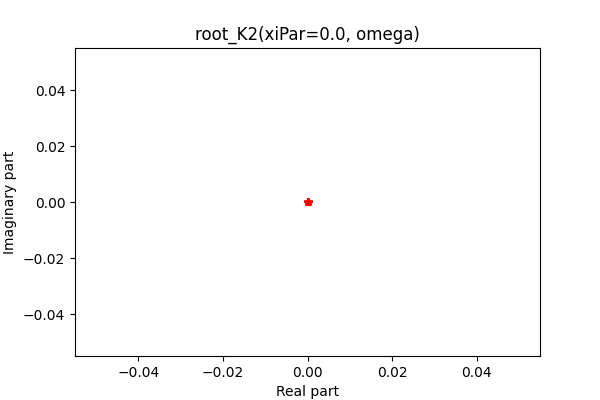
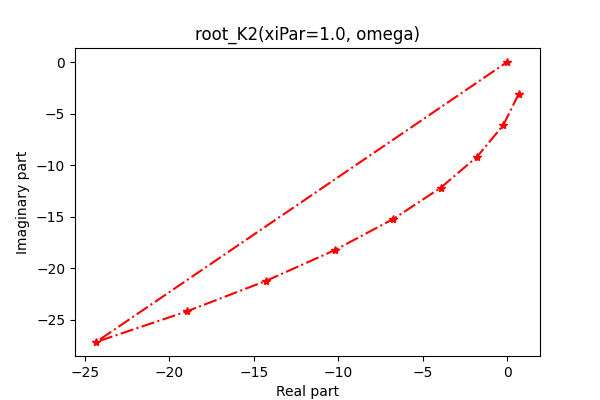
Updated k root graphs

diff --git a/app.py b/app.py
@@ -253,7 +253,7 @@ def page2():
         def plottingK1(xiPar):
           omegaChange = np.linspace(omegaParameterFrom, omegaParameterTo, 10)
           KRoot1Change = np.zeros((10), dtype = "complex")
-          for i in range(len(omegaChange)-1):
+          for i in range(len(omegaChange)):
             KRoot1Change[i] = root_K1(xiPar, omegaChange[i])
           fig, ax = plt.subplots(figsize=(6, 4))
           ax.plot(np.real(KRoot1Change), np.imag(KRoot1Change), '-.r*')
@@ -268,7 +268,7 @@ def page2():
         def plottingK2(xiPar):
           omegaChange = np.linspace(omegaParameterFrom, omegaParameterTo, 10)
           KRoot2Change = np.zeros((10), dtype = "complex")
-          for i in range(len(omegaChange)-1):
+          for i in range(len(omegaChange)):
             KRoot2Change[i] = root_K2(xiPar, omegaChange[i])
           fig, ax = plt.subplots(figsize=(6, 4))
           ax.plot(np.real(KRoot2Change), np.imag(KRoot2Change), '-.r*')
@@ -283,7 +283,7 @@ def page2():
         def plottingK3(xiPar):
           omegaChangeRoot3 = np.linspace(omegaParameterFrom, omegaParameterTo, 10)
           KRoot3Change = np.zeros((10), dtype = "complex")
-          for i in range(len(omegaChangeRoot3)-1):
+          for i in range(len(omegaChangeRoot3)):
             KRoot3Change[i] = root_K3(xiPar, omegaChangeRoot3[i])
           fig, ax = plt.subplots(figsize=(6, 4))
           ax.plot(np.real(KRoot3Change), np.imag(KRoot3Change), '-.r*')
@@ -407,12 +407,20 @@ def page2():
         def plot_u_theta(x_1, x_2, xiPar, omegaChange):
           x_1_values = np.linspace(1, 10, 10)
           x_2_values = np.linspace(1, 10, 10)
+          xiParChange = np.linspace(1, 10, 10)
+          omega_values = np.linspace(omegaParameterFrom, omegaParameterTo, 10)
+          # Initialize arrays to store the results for xi
+          u_values_xi = np.zeros((10, 2), dtype=np.complex128)
+          theta_values_xi = np.zeros(10, dtype=np.complex128)
           # Initialize arrays to store the results for x_1
           u_values_x1 = np.zeros((10, 2), dtype=np.complex128)
           theta_values_x1 = np.zeros(10, dtype=np.complex128)
           # Initialize arrays to store the results for x_2
           u_values_x2 = np.zeros((10, 2), dtype=np.complex128)
           theta_values_x2 = np.zeros(10, dtype=np.complex128)
+          # Initialize arrays to store the results for omega
+          u_values_omega = np.zeros((10, 2), dtype=np.complex128)
+          theta_values_omega = np.zeros(10, dtype=np.complex128)
           # Iterate over each x_1 value and calculate u and theta
           for i, x_1 in enumerate(x_1_values):
               u_values_x1[i] = calculate_ui(x_1, x_2, xiPar, omegaChange)
@@ -421,7 +429,13 @@ def page2():
           for i, x_2 in enumerate(x_2_values):
                 u_values_x2[i] = calculate_ui(x_1, x_2, xiPar, omegaChange)
                 theta_values_x2[i] = calculate_theta(x_1, x_2, xiPar, omegaChange)
-
+          # Iterate over each x_2 value and calculate u and theta
+          for i, xi in enumerate(xiParChange):
+              u_values_xi[i] = calculate_ui(x_1, x_2, xi, omegaChange)
+              theta_values_xi[i] = calculate_theta(x_1, x_2, xi, omegaChange)
+          for i, omega in enumerate(omega_values):
+              u_values_omega[i] = calculate_ui(x_1, x_2, xi, omega)
+              theta_values_omega[i] = calculate_theta(x_1, x_2, xi, omega)
           # Plot the graphs
           plt.figure(figsize=(10, 5))
 
@@ -462,11 +476,56 @@ def page2():
           plt.xlabel('x_2')
           plt.ylabel('theta')
           plt.title('Graph of theta for x_2')
+
           # Show the plots
           plt.tight_layout()
           plt.savefig("plot_image2.png")
           plot2 = Image.open("plot_image2.png")
           st.image(plot2, width=800)
+
+          #Plot u for xi
+          plt.subplot(1, 2, 1)
+          plt.plot(xiParChange, u_values_xi[:, 0].real,'r', label='u_1')
+          plt.plot(xiParChange, u_values_xi[:, 1].real, 'g', label='u_2')
+          plt.xlabel('xi')
+          plt.ylabel('u')
+          plt.title('Graphs of u')
+          plt.legend()
+
+           # Plot theta for xi
+          plt.subplot(1, 2, 2)
+          plt.plot(xiParChange, theta_values_xi.real, 'g')
+          plt.xlabel('xi')
+          plt.ylabel('theta')
+          plt.title('Graph of theta')
+
+           # Show the plots
+          plt.tight_layout()
+          plt.savefig("plot_image3.png")
+          plot3 = Image.open("plot_image3.png")
+          st.image(plot3, width=800)
+
+          #Plot u for omega
+          plt.subplot(1, 2, 1)
+          plt.plot(omega_values, u_values_omega[:, 0].real,'r', label='u_1')
+          plt.plot(omega_values, u_values_omega[:, 1].real, 'g', label='u_2')
+          plt.xlabel('omega')
+          plt.ylabel('u')
+          plt.title('Graphs of u')
+          plt.legend()
+
+           # Plot theta for xi
+          plt.subplot(1, 2, 2)
+          plt.plot(xiParChange, theta_values_omega.real, 'g')
+          plt.xlabel('omega')
+          plt.ylabel('theta')
+          plt.title('Graph of theta')
+
+           # Show the plots
+          plt.tight_layout()
+          plt.savefig("plot_image4.png")
+          plot4 = Image.open("plot_image4.png")
+          st.image(plot4, width=800)
 
 
         col4, col5, col6 = st.columns(3)
@@ -498,7 +557,8 @@ def page2():
             st.write("Displacement u", calculate_ui(x_1, x_2, xiParInput, omegaParameterTo-omegaParameterFrom))
         with col8:
             st.write("Teperature theta", calculate_theta(x_1, x_2, xiParInput, omegaParameterTo-omegaParameterFrom))
-        st.write("Solution of stationary oskilations f_z(x_2)", plotting_ui(x_1, x_2, xiParInput, omegaParameterTo-omegaParameterFrom))
+        st.write("Solution of stationary oskilations f_z(x_2)")
+        plotting_ui(x_1, x_2, xiParInput, omegaParameterTo-omegaParameterFrom)
     except NameError:
         st.warning("No operations to perform")
     if st.button( "Go back to solver"):
